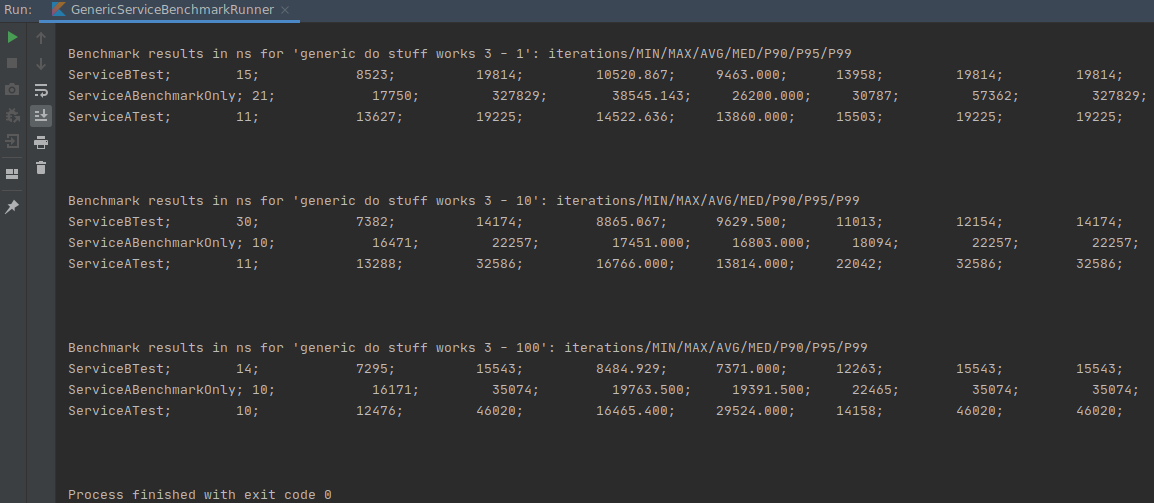
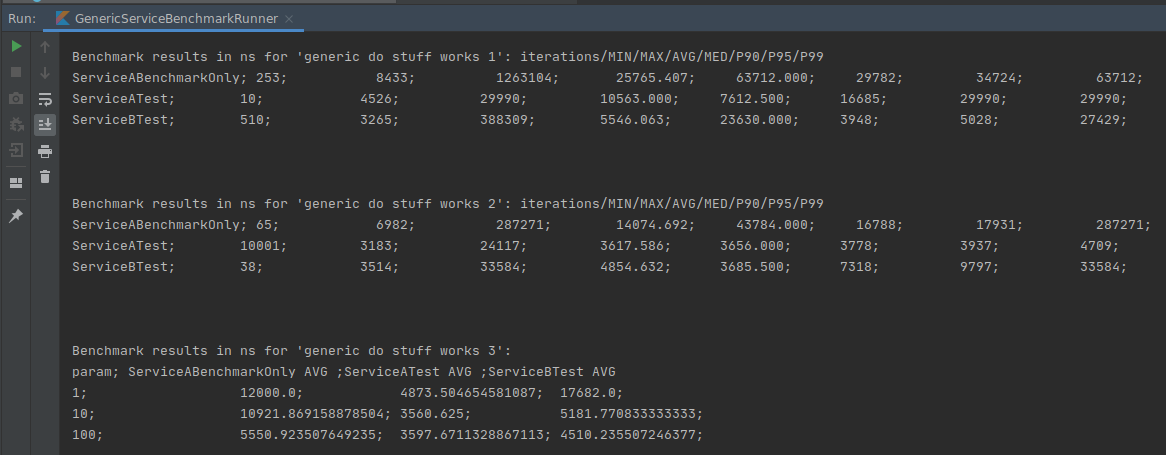
BenchmarkRunner: new way of printing results for parametrized benchmarks

diff --git a/framework/src/main/kotlin/com/nikitatomilov/BenchmarkRunner.kt b/framework/src/main/kotlin/com/nikitatomilov/BenchmarkRunner.kt
@@ -1,10 +1,7 @@
 package com.nikitatomilov
 
 import com.google.common.collect.HashBasedTable
-import com.nikitatomilov.api.BenchmarkStopwatch
-import com.nikitatomilov.api.GuavaStopwatchStrategy
-import com.nikitatomilov.api.IterationStrategy
-import com.nikitatomilov.api.UntilDoesntChangeIterationStrategy
+import com.nikitatomilov.api.*
 import com.nikitatomilov.measurements.Measurements
 import org.reflections.Reflections
 
@@ -37,7 +34,7 @@ object BenchmarkRunner {
       constructor.newInstance() as BenchmarkableBase
     }
 
-    val measurements = HashBasedTable.create<BenchmarkableBase, String, Measurements>()
+    val measurements = HashBasedTable.create<BenchmarkableBase, NamedResult, Measurements>()
     testSourceInstances.forEach { instance ->
       val runner = BenchmarkInstanceRunner(instance, stopwatch, iterationsStrategy)
       val measurementsForTarget = runner.runAll()
@@ -46,8 +43,18 @@ object BenchmarkRunner {
       }
     }
 
-    val methodNames = measurements.columnKeySet().toList().sorted()
-    methodNames.forEach { printResultsFor(it, measurements.column(it)) }
+    val namedResultsFull = measurements.columnKeySet().toList()
+    val methodNames = namedResultsFull.map { it.name() }.toSet().toList().sorted()
+    methodNames.forEach { name ->
+      val resultsForMethodName = namedResultsFull.filter { it.name() == name }.toSet()
+      if (resultsForMethodName.size == 1) {
+        val method = resultsForMethodName.single()
+        printResultsFor(method.name(), measurements.column(method))
+      } else {
+        val sorted = resultsForMethodName.sortedBy { it.param() }
+        printResultsFor(name, sorted, measurements)
+      }
+    }
   }
 
   fun suitableForBenchmarking(x: Class<*>): Boolean {
@@ -78,6 +85,24 @@ object BenchmarkRunner {
       val name = "${target.javaClass.simpleName};".padEnd(20, ' ')
       val results = values.toM4String()
       println("$name $results")
+    }
+    println("\n")
+  }
+
+  private fun printResultsFor(
+    methodName: String,
+    namedResults: List<NamedResult>,
+    table: HashBasedTable<BenchmarkableBase, NamedResult, Measurements>
+  ) {
+    val implementations = table.rowKeySet().sortedBy { it.javaClass.simpleName }
+    val tableLegend = implementations.joinToString(" ;") { "${it.javaClass.simpleName} AVG" }
+    println("\nBenchmark results in ns for '$methodName': \nparam; $tableLegend ")
+    namedResults.forEach { nr ->
+      val param = nr.param()
+      val rowString =
+          implementations.map { table.get(it, nr).avg }.joinToString("") { "$it;".padEnd(20, ' ') }
+      val rowName = "$param; ".padEnd(20, ' ')
+      println("$rowName $rowString")
     }
     println("\n")
   }

diff --git a/framework/src/main/kotlin/com/nikitatomilov/BenchmarkInstanceRunner.kt b/framework/src/main/kotlin/com/nikitatomilov/BenchmarkInstanceRunner.kt
@@ -10,8 +10,8 @@ class BenchmarkInstanceRunner(
   private val iterationsStrategy: IterationStrategy
 ) {
 
-  fun runAll(): Map<String, Measurements> {
-    val measurements = HashMap<String, ArrayList<Long>>()
+  fun runAll(): Map<NamedResult, Measurements> {
+    val measurements = HashMap<NamedResult, ArrayList<Long>>()
     val methods = target.getBenchmarkableMethods()
     target.beforeAll()
     methods.forEach { method ->
@@ -21,7 +21,7 @@ class BenchmarkInstanceRunner(
           iterationsStrategy.clear()
           do {
             time = runSingle(method)
-            measurements.getOrPut(name(method)) { arrayListOf() }.add(time)
+            measurements.getOrPut(NamedResult(method)) { arrayListOf() }.add(time)
           } while(!iterationsStrategy.shouldStopIterating(time))
         }
         1 -> {
@@ -31,7 +31,7 @@ class BenchmarkInstanceRunner(
             iterationsStrategy.clear()
             do {
               time = runSingle(method, arg)
-              measurements.getOrPut(name(method, arg)) { arrayListOf() }.add(time)
+              measurements.getOrPut(NamedResult(method, arg)) { arrayListOf() }.add(time)
             } while(!iterationsStrategy.shouldStopIterating(time))
           }
         }

diff --git a/framework/src/main/kotlin/com/nikitatomilov/api/NamedResult.kt b/framework/src/main/kotlin/com/nikitatomilov/api/NamedResult.kt
@@ -1,0 +1,18 @@
+package com.nikitatomilov.api
+
+import java.lang.reflect.Method
+
+data class NamedResult(
+  private val method: Method,
+  private val param: Any? = null
+) {
+
+  fun nameWithParam(): String = if (param == null) method.name else "${method.name} - $param"
+
+  fun name(): String = method.name
+
+  @Suppress("UNCHECKED_CAST")
+  fun param(): Comparable<Any> {
+    return param as Comparable<Any>
+  }
+}
